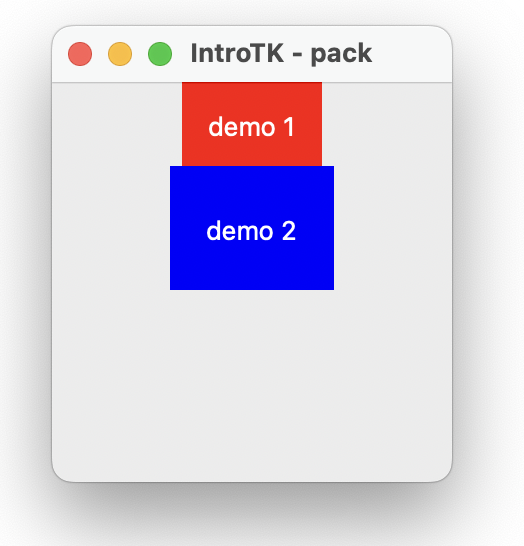
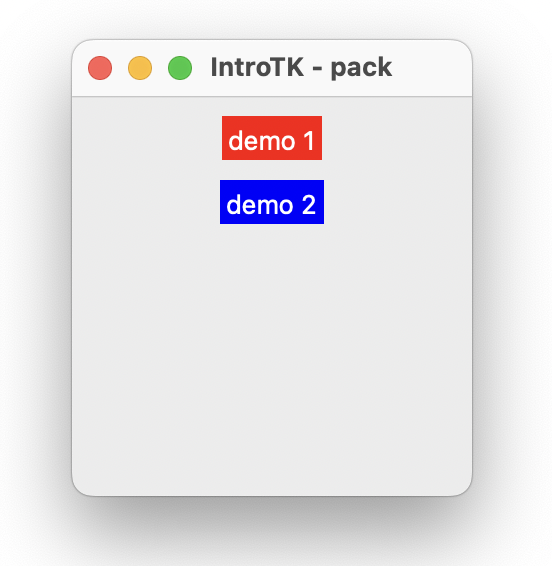
end of pack() chapter

Changed region(s): [[0.0916, 0.0623, 0.8855, 0.9029]]

diff --git a/introTK.md b/introTK.md
@@ -311,7 +311,7 @@ Afin de faire une interface avancée, il faut que nous parlions de la
 méthode `pack()`de manière un peu plus exhaustive. Nous allons voir
 plusieurs exemples afin d'illustré le fonctionnement de `pack()`.
 
-###  un paquetage pas défaut
+### un paquetage par défaut
 
 Voici donc le premier exemple.
 
@@ -353,12 +353,14 @@ système de coordonnées basé sur le coin gauche haut.
 ![](images/tk-win-coo.png){:.width-50}
 
 
-### Espacement (padx, pady)
+### Espacement (padx, pady, ipadx et ipady)
 
 Il est possible d'ajouter un espacement (avant, après, en haut et en
 bas), d'un objet par rapport à un autre. Il s'agit des attributs
-`ipadx` et `ipady`.
-
+`padx` et `pady`. Il est aussi possible d'ajouter de l'espace au sein
+même de l'objet. Il s'agit de `ipadx`et `ipady`.
+	
+Voyons déjà l'effet des `ipad` :
 
 
 ```python
@@ -374,14 +376,44 @@ lbl_demo1.pack(ipadx=10, ipady=10)
 
 
 lbl_demo2 = Label(root, text="demo 2", bg="blue", fg="white")
-lbl_demo2.pack(ipadx=15, ipady=20)
+lbl_demo2.pack()
 
 
 root.mainloop()
 ```
 
 
+![](images/tk-win-ipad.png){:.width-50}
+
+Nous constatons que le premier label a été élargi dans les deux axes.
+
+Regardons maintenant l'effet des `pad` :
+
+
+```python
+from tkinter import *
+
+root = Tk()
+root.title("IntroTK - pack")
+root.geometry("200x200")
+
+
+lbl_demo1 = Label(root, text="demo 1", bg="red", fg="white")
+lbl_demo1.pack(padx=10, pady=10)
+
+
+lbl_demo2 = Label(root, text="demo 2", bg="blue", fg="white")
+lbl_demo2.pack()
+
+
+root.mainloop()
+```
+
+
+
 ![](images/tk-win-pad.png){:.width-50}
+
+Nous constatons ici que qu'un espace entre les labels a été ajouté.
 
 
 ### On s'étend (the `fill`option)
@@ -412,6 +444,7 @@ root.mainloop()
 
 
 ![](images/tk-win-fill1.png){:.width-50}
+
 
 
 Nous constatons que le `fill`en X fonctionne mais, il ne se passe rien
@@ -506,7 +539,7 @@ root.mainloop()
 
 
 La propriété `anchor` permet d'ancrer un objet dans le coin de
-l'espace définit. Il accepte les valeurs suivantes :
+**l'espace définit**. Il accepte les valeurs suivantes :
 
 
 | Sticky | Description                 |
@@ -524,5 +557,247 @@ l'espace définit. Il accepte les valeurs suivantes :
 
 
 ![](images/tk-win-path.png){:.width-50}
+
+
+Remarque : Attention, l'accroche ne se fait que dans le cadre de
+l'objet. Il n'est pas possible d'en sortir.
+
+
+Prenons l'exemple suivant :
+
+
+```python
+
+#!/usr/bin/env python3
+from tkinter import *
+root = Tk()
+root.title("IntroTK - pack")
+root.geometry("200x200")
+
+
+
+lbl_demo1 = Label(root, text="demo 1", bg="red", fg="white")
+lbl_demo1.pack(expand=True, anchor="se")
+
+lbl_demo2 = Label(root, text="demo 2", bg="blue", fg="white")
+lbl_demo2.pack(expand=True)
+
+root.mainloop()
+```
+
+![](images/tk-win-anchor-limit1.png){:.width-50}
+
+Nous constatons que le label rouge ne s'ancre pas complètement au
+sud. Afin de mieux comprendre ce qui se passe, il faut ajouter un
+Frame de type Label tel que : 
+
+
+
+
+```python
+from tkinter import *
+
+root = Tk()
+root.title("IntroTK - pack")
+root.geometry("200x200")
+
+lblf_1 = LabelFrame(root, text="demo 1")
+lblf_1.pack(expand=True,fill=BOTH)
+
+
+lblf_2 = LabelFrame(root, text="demo 2")
+lblf_2.pack(expand=True, fill=BOTH)
+
+
+lbl_demo1 = Label(lblf_1, text="demo 1", bg="red", fg="white")
+lbl_demo1.pack()
+
+
+lbl_demo2 = Label(lblf_2, text="demo 2", bg="blue", fg="white")
+lbl_demo2.pack()
+
+
+root.mainloop()
+```
+
+![](images/tk-win-anchor-demo.png){:.width-50}
+
+
+Il sera impossible d'ancrer le label "demo 1" tout en bas de la
+fenêtre. En effet, l'espace allouer au label rouge est délimiter par la
+moitié de l'écran. Comme nous pouvons le constater grâce au `Frame`.
+
+Regardons donc, ce que fait un `anchor='SE`sur le `label 1`.
+
+```python
+from tkinter import *
+
+root = Tk()
+root.title("IntroTK - pack")
+root.geometry("200x200")
+
+lblf_1 = LabelFrame(root, text="demo 1")
+lblf_1.pack(expand=True,fill=BOTH)
+
+
+lblf_2 = LabelFrame(root, text="demo 2")
+lblf_2.pack(expand=True, fill=BOTH)
+
+
+lbl_demo1 = Label(lblf_1, text="demo 1", bg="red", fg="white")
+lbl_demo1.pack()
+
+
+lbl_demo2 = Label(lblf_2, text="demo 2", bg="blue", fg="white")
+lbl_demo2.pack()
+
+
+root.mainloop()
+```
+
+![](images/tk-win-anchor-limit2.png){:.width-50}
+
+
+### Changer d'orientation `side`.
+
+Comme nous l'avions vu au [début de
+chapitre](#un-paquetage-par-défaut), `pack` emplie les objets l'un en
+dessous de l'autre.
+
+![](images/tk-win-pack-1.png){:.width-50}
+
+Nous pouvons changer ce comportement avec le paramètre `side`. Voici
+les options possible du paramètre `side`.
+
+
+| Sticky | Description                                                |
+|--------|------------------------------------------------------------|
+| TOP    | Emplie les objets de haut en bas (comportement par défaut= |
+| LEFT   | Emplie les objets de gauche à droite                       |
+| RIGHT  | Emplie les objets de droite à gauche                       |
+| BOTTOM | Emplie les objet de bas en haut.                           |
+
+
+Reprenons l'exemple du début de chapitre en changeant seulement
+l'orientation.
+
+#### `side`LEFT
+
+
+```python
+from tkinter import *
+
+root = Tk()
+root.title("IntroTK - pack")
+root.geometry("400x200")
+
+
+lbl_demo1 = Label(root, text="demo 1", bg="red", fg="white")
+lbl_demo1.pack(side=LEFT)
+
+
+lbl_demo2 = Label(root, text="demo 2", bg="blue", fg="white")
+lbl_demo2.pack(side=LEFT)
+
+bt_demo = Button(root, text="click me")
+bt_demo.pack(side=LEFT)
+
+txt_demo = Entry(root)
+txt_demo.pack(side=LEFT)
+
+root.mainloop()
+```
+
+![](images/tk-win-side-left.png){:.width-50}
+
+
+
+#### `side`RIGHT
+
+```python
+from tkinter import *
+
+root = Tk()
+root.title("IntroTK - pack")
+root.geometry("400x200")
+
+
+lbl_demo1 = Label(root, text="demo 1", bg="red", fg="white")
+lbl_demo1.pack(side=RIGHT)
+
+
+lbl_demo2 = Label(root, text="demo 2", bg="blue", fg="white")
+lbl_demo2.pack(side=RIGHT)
+
+bt_demo = Button(root, text="click me")
+bt_demo.pack(side=RIGHT)
+
+txt_demo = Entry(root)
+txt_demo.pack(side=RIGHT)
+
+root.mainloop()
+```
+
+![](images/tk-win-side-right.png){:.width-50}
+
+#### `side`BOTTOM
+
+
+```python
+from tkinter import *
+
+root = Tk()
+root.title("IntroTK - pack")
+root.geometry("200x200")
+
+
+lbl_demo1 = Label(root, text="demo 1", bg="red", fg="white")
+lbl_demo1.pack()
+
+
+lbl_demo2 = Label(root, text="demo 2", bg="blue", fg="white")
+lbl_demo2.pack()
+
+bt_demo = Button(root, text="click me")
+bt_demo.pack()
+
+txt_demo = Entry(root)
+txt_demo.pack() 
+
+root.mainloop()
+```
+
+![](images/tk-win-side-bottom.png){:.width-50}
+
+
+#### `side` mixte
+
+Il est aussi possible de mélanger les options d'orientation. Nous
+pouvons donc faire ceci :
+
+
+```python
+from tkinter import *
+
+root = Tk()
+root.title("IntroTK - pack")
+root.geometry("200x200")
+
+
+lbl_demo1 = Label(root, text="demo 1", bg="red", fg="white")
+lbl_demo1.pack(side=LEFT,expand=True, fill=BOTH)  
+
+
+lbl_demo2 = Label(root, text="demo 2", bg="blue", fg="white")
+lbl_demo2.pack( side=TOP, expand=True, fill=BOTH)
+
+lbl_demo3 = Label(root, text="demo 2", bg="blue", fg="white")
+lbl_demo3.pack(side=TOP, expand=True, fill=BOTH)
+
+
+root.mainloop()
+```
+
+![](images/tk-win-side-mixte.png){:.width-50}
 
 
